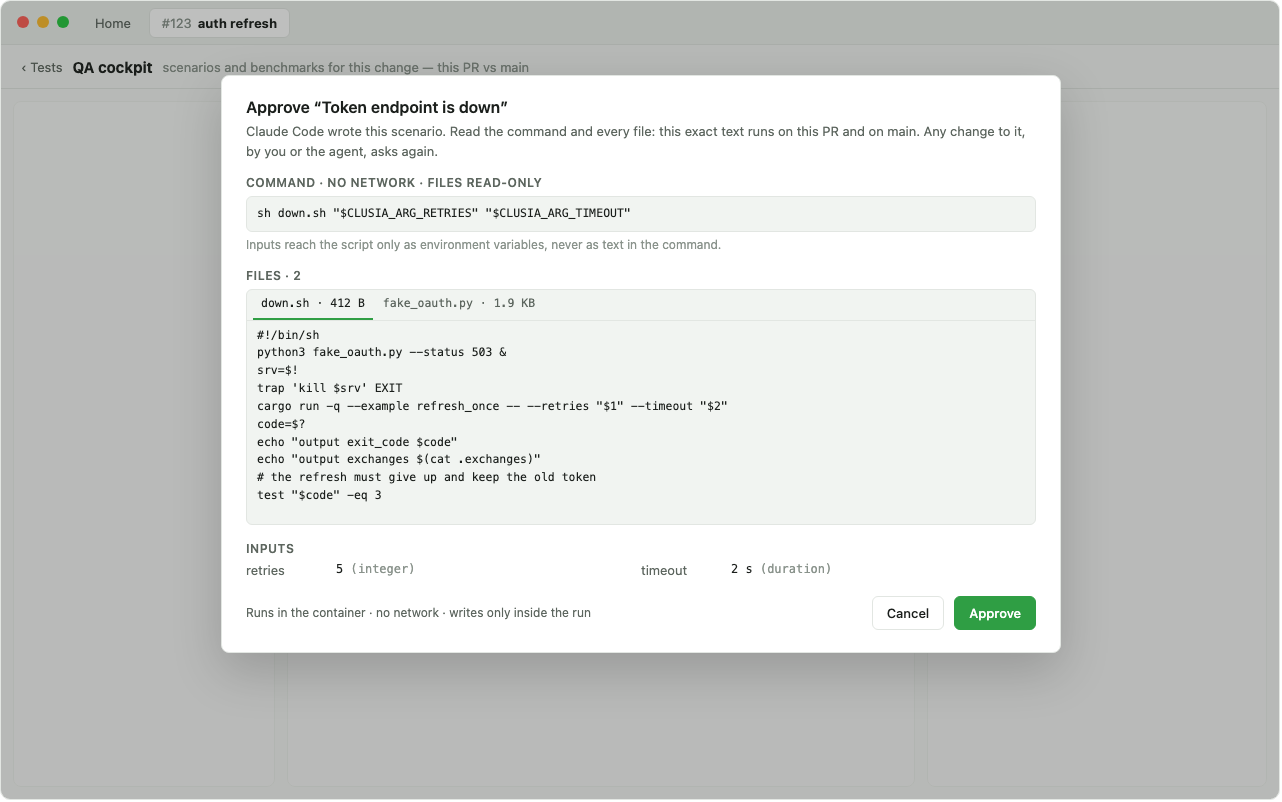
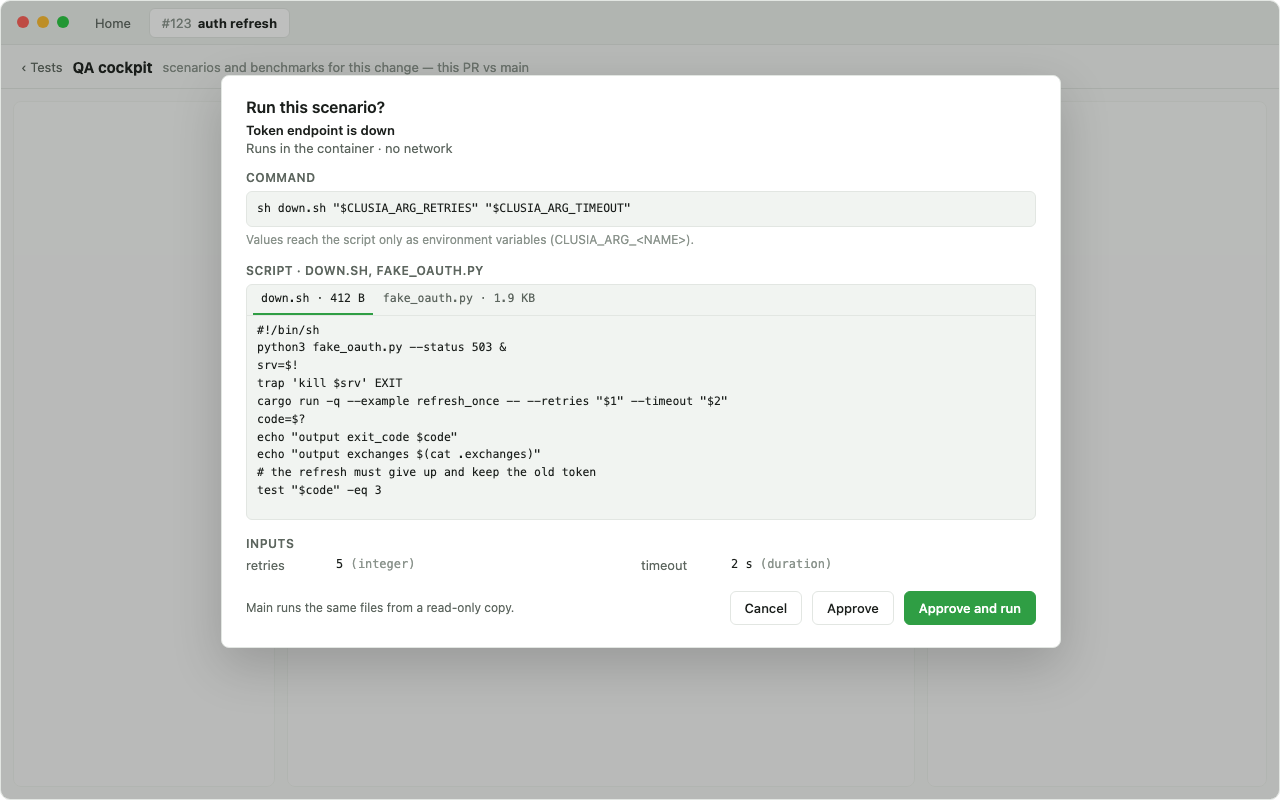
docs: the cockpit mockups use the copy the engine already fixes (status lines, approval and main's plan)

diff --git a/docs/mockups/sp4/src/cockpit-main.html b/docs/mockups/sp4/src/cockpit-main.html
@@ -4,24 +4,24 @@
   <div class="top"><span class="dots"><span style="background:#ff5f57"></span><span style="background:#febc2e"></span><span style="background:#28c840"></span></span>
     <span class="tab">Home</span><span class="tab on"><span class="f" style="margin-right:6px">#123</span><b>auth refresh</b></span></div>
   <div class="ck"><span class="back">‹ Tests</span><b>QA cockpit</b><span class="f">scenarios and benchmarks for this change — this PR vs main</span>
-    <span class="mainst" style="margin-left:auto"><span class="m">main</span><span class="mono">4e1f2a0</span><span class="amb">● needs setup</span></span></div>
+    <span class="mainst" style="margin-left:auto"><span class="m">main ·</span><span class="mono">4e1f2a0</span><span class="amb">● needs setup</span></span></div>
   <div class="cols" style="opacity:.35"><div class="col left"></div><div class="col mid"></div><div class="col right"></div></div>
   <div style="position:absolute;inset:0;background:rgba(20,24,22,.28)"></div>
   <div class="card" style="position:absolute;left:230px;top:96px;width:820px;padding:22px 24px;box-shadow:0 18px 50px rgba(0,0,0,.18)">
-    <div style="font-size:16px;font-weight:600">Set up main for comparison</div>
-    <div class="m" style="margin:6px 0 14px;line-height:1.5">A second checkout at this PR's base, <span class="mono">4e1f2a0</span>, with the same image and its own caches, so neither side warms the other. These steps are approved for main on their own. The first run builds from scratch.</div>
+    <div style="font-size:16px;font-weight:600">Prepare main</div>
+    <div class="m mono" style="margin:6px 0 4px;font-size:12px">main · 4e1f2a0 · this pull request's image clusia/rzorzal-clusia:4f2a91c · recipe 9c2e41a</div><div class="m" style="margin-bottom:14px;line-height:1.5">Main builds in its own worktree with its own caches; its first run builds from scratch.</div>
     <div class="m" style="font-size:12px;font-weight:600;letter-spacing:.04em;margin-bottom:6px">SETUP ON MAIN · 2 STEPS</div>
     <table><tbody>
       <tr><td style="width:26px">☑</td><td style="width:250px">Fetch dependencies</td><td class="mono m">cargo fetch --locked</td><td style="text-align:right;width:150px"><span class="pill" style="background:var(--chrome)">container</span> <span class="pill" style="background:var(--bluebg);color:var(--blue)">network</span></td></tr>
       <tr><td>☑</td><td>Build the tests</td><td class="mono m">cargo test --no-run --workspace</td><td style="text-align:right"><span class="pill" style="background:var(--chrome)">container</span></td></tr>
     </tbody></table>
-    <div class="m" style="font-size:12px;font-weight:600;letter-spacing:.04em;margin:16px 0 6px">USES</div>
+    <div class="m" style="font-size:12px;font-weight:600;letter-spacing:.04em;margin:16px 0 6px">COMMANDS ON MAIN · NO NETWORK</div><div class="mono" style="margin-bottom:10px">cargo test --workspace</div><div class="m" style="font-size:12px;font-weight:600;letter-spacing:.04em;margin:6px 0 6px">USES</div>
     <div style="display:grid;grid-template-columns:110px 1fr;row-gap:5px">
       <span class="m">Recipe</span><span>this PR's recipe <span class="f">(main has none)</span> · <span class="mono">sha 9c2e…41a</span></span>
       <span class="m">Image</span><span class="mono">clusia/rzorzal-clusia:4f2a91c</span>
       <span class="m">Caches</span><span>main's own · <span class="mono">clusia-main-*</span> volumes</span>
       <span class="m">Removed</span><span>with the review, and by Prune</span>
     </div>
-    <div style="display:flex;gap:10px;margin-top:18px;align-items:center"><span class="btn" style="margin-left:auto">Cancel</span><span class="btn p">Approve and prepare main</span></div>
+    <div style="display:flex;gap:10px;margin-top:18px;align-items:center"><span class="btn" style="margin-left:auto">Cancel</span><span class="btn p">Approve and prepare</span></div>
   </div>
 </div></body></html>

diff --git a/docs/mockups/sp4/src/cockpit-scenario.html b/docs/mockups/sp4/src/cockpit-scenario.html
@@ -4,16 +4,16 @@
   <div class="top"><span class="dots"><span style="background:#ff5f57"></span><span style="background:#febc2e"></span><span style="background:#28c840"></span></span>
     <span class="tab">Home</span><span class="tab on"><span class="f" style="margin-right:6px">#123</span><b>auth refresh</b></span></div>
   <div class="ck"><span class="back">‹ Tests</span><b>QA cockpit</b><span class="f">scenarios and benchmarks for this change — this PR vs main</span>
-    <span class="mainst" style="margin-left:auto"><span class="m">main</span><span class="mono">4e1f2a0</span><span class="ok">● ready</span></span>
+    <span class="mainst" style="margin-left:auto"><span class="m">main ·</span><span class="mono">4e1f2a0</span><span class="ok">● ready</span></span>
     <span class="mainst" style="margin-left:14px"><span class="ok">●</span>QA copilot · Claude Code</span></div>
   <div class="cols">
     <div class="col left">
       <div class="grp">SCENARIOS · 3</div>
       <div class="it"><span>Two requests refresh at once</span><span class="s"><span class="ok">passed</span> <span class="f">· main: failed</span></span></div>
-      <div class="it on"><span style="font-weight:600">Refresh under steady traffic</span><span class="s bad">worse than main: memory</span></div>
-      <div class="it"><span>Token endpoint is down</span><span class="s amb">needs your approval</span></div>
+      <div class="it on"><span style="font-weight:600">Refresh under steady traffic</span><span class="s bad">memory +116% · worse than main</span></div>
+      <div class="it"><span>Token endpoint is down</span><span class="s amb">not approved</span></div>
       <div class="grp" style="margin-top:8px">BENCHMARKS · ON DEMAND · 2</div>
-      <div class="it"><span class="mono">backoff_delay</span><span class="s f">no clear difference from main</span></div>
+      <div class="it"><span class="mono">backoff_delay</span><span class="s f">no clear difference (±3%)</span></div>
       <div class="it"><span class="mono">TokenStore::refresh</span><span class="s f">not run</span></div>
       <div class="grp" style="margin-top:8px;color:var(--faint)">LOAD · COMES LATER</div>
       <span class="btn" style="margin-top:10px;height:32px">+ Ask the copilot for a scenario</span>
@@ -45,7 +45,7 @@ echo "output exchanges $(cat .exchanges)"</div></div>
           <svg width="100%" height="92" viewBox="0 0 270 92" preserveAspectRatio="none"><polyline fill="none" stroke="var(--fg)" stroke-width="2" points="0,70 30,40 60,46 90,38 120,44 150,40 180,47 210,39 240,45 270,42"/><polyline fill="none" stroke="var(--faint)" stroke-width="1.6" stroke-dasharray="5 4" points="0,72 30,46 60,48 90,44 120,49 150,45 180,47 210,44 240,48 270,46"/></svg></div>
       </div>
       <div class="h">Errors</div>
-      <div><span class="bad">12 × "token store busy"</span> <span class="m">· first at 1.8 s · this PR</span> <span class="f">· none on main</span></div>
+      <div><span class="bad">12 × token store busy after 1.8 s (this PR)</span> <span class="m">· 0 on main</span></div>
       <div style="display:flex;gap:10px;margin-top:auto;padding-top:12px;align-items:center">
         <span class="btn p">▶ Run on this PR and main</span><span class="m" style="font-size:12px">3 rounds a side, alternated</span>
         <span class="u" style="margin-left:auto">Suggest as a test in a comment</span>

diff --git a/docs/mockups/sp4/src/cockpit-approve.html b/docs/mockups/sp4/src/cockpit-approve.html
@@ -7,12 +7,12 @@
   <div class="cols" style="opacity:.35"><div class="col left"></div><div class="col mid"></div><div class="col right"></div></div>
   <div style="position:absolute;inset:0;background:rgba(20,24,22,.28)"></div>
   <div class="card" style="position:absolute;left:220px;top:74px;width:840px;padding:22px 24px;box-shadow:0 18px 50px rgba(0,0,0,.18)">
-    <div style="font-size:16px;font-weight:600">Approve “Token endpoint is down”</div>
-    <div class="m" style="margin:6px 0 14px;line-height:1.5">Claude Code wrote this scenario. Read the command and every file: this exact text runs on this PR and on main. Any change to it, by you or the agent, asks again.</div>
-    <div class="m" style="font-size:12px;font-weight:600;letter-spacing:.04em;margin-bottom:6px">COMMAND · NO NETWORK · FILES READ-ONLY</div>
+    <div style="font-size:16px;font-weight:600">Run this scenario?</div>
+    <div style="margin:6px 0 2px;font-weight:600">Token endpoint is down</div><div class="m" style="margin-bottom:14px">Runs in the container · no network</div>
+    <div class="m" style="font-size:12px;font-weight:600;letter-spacing:.04em;margin-bottom:6px">COMMAND</div>
     <div class="pane" style="padding:8px 10px">sh down.sh "$CLUSIA_ARG_RETRIES" "$CLUSIA_ARG_TIMEOUT"</div>
-    <div class="f" style="font-size:12px;margin-top:5px">Inputs reach the script only as environment variables, never as text in the command.</div>
-    <div class="m" style="font-size:12px;font-weight:600;letter-spacing:.04em;margin:16px 0 6px">FILES · 2</div>
+    <div class="f" style="font-size:12px;margin-top:5px">Values reach the script only as environment variables (CLUSIA_ARG_&lt;NAME&gt;).</div>
+    <div class="m" style="font-size:12px;font-weight:600;letter-spacing:.04em;margin:16px 0 6px">SCRIPT · DOWN.SH, FAKE_OAUTH.PY</div>
     <div class="pane" style="height:236px"><div class="ftabs"><span class="on">down.sh · 412 B</span><span>fake_oauth.py · 1.9 KB</span></div><div style="padding:6px 10px">#!/bin/sh
 python3 fake_oauth.py --status 503 &amp;
 srv=$!
@@ -25,6 +25,6 @@ echo "output exchanges $(cat .exchanges)"
 test "$code" -eq 3</div></div>
     <div class="m" style="font-size:12px;font-weight:600;letter-spacing:.04em;margin:16px 0 6px">INPUTS</div>
     <div style="display:grid;grid-template-columns:90px 1fr 90px 1fr;row-gap:5px"><span class="m">retries</span><span class="mono">5 <span class="f">(integer)</span></span><span class="m">timeout</span><span class="mono">2 s <span class="f">(duration)</span></span></div>
-    <div style="display:flex;gap:10px;margin-top:18px;align-items:center"><span class="m" style="font-size:12px">Runs in the container · no network · writes only inside the run</span><span class="btn" style="margin-left:auto">Cancel</span><span class="btn p">Approve</span></div>
+    <div style="display:flex;gap:10px;margin-top:18px;align-items:center"><span class="m" style="font-size:12px">Main runs the same files from a read-only copy.</span><span class="btn" style="margin-left:auto">Cancel</span><span class="btn">Approve</span><span class="btn p">Approve and run</span></div>
   </div>
 </div></body></html>

diff --git a/docs/mockups/sp4/src/cockpit-bench.html b/docs/mockups/sp4/src/cockpit-bench.html
@@ -4,16 +4,16 @@
   <div class="top"><span class="dots"><span style="background:#ff5f57"></span><span style="background:#febc2e"></span><span style="background:#28c840"></span></span>
     <span class="tab">Home</span><span class="tab on"><span class="f" style="margin-right:6px">#123</span><b>auth refresh</b></span></div>
   <div class="ck"><span class="back">‹ Tests</span><b>QA cockpit</b><span class="f">scenarios and benchmarks for this change — this PR vs main</span>
-    <span class="mainst" style="margin-left:auto"><span class="m">main</span><span class="mono">4e1f2a0</span><span class="ok">● ready</span></span>
+    <span class="mainst" style="margin-left:auto"><span class="m">main ·</span><span class="mono">4e1f2a0</span><span class="ok">● ready</span></span>
     <span class="mainst" style="margin-left:14px"><span class="ok">●</span>QA copilot · Claude Code</span></div>
   <div class="cols">
     <div class="col left">
       <div class="grp">SCENARIOS · 3</div>
       <div class="it"><span>Two requests refresh at once</span><span class="s"><span class="ok">passed</span> <span class="f">· main: failed</span></span></div>
-      <div class="it"><span>Refresh under steady traffic</span><span class="s bad">worse than main: memory</span></div>
-      <div class="it"><span>Token endpoint is down</span><span class="s amb">needs your approval</span></div>
+      <div class="it"><span>Refresh under steady traffic</span><span class="s bad">memory +116% · worse than main</span></div>
+      <div class="it"><span>Token endpoint is down</span><span class="s amb">not approved</span></div>
       <div class="grp" style="margin-top:8px">BENCHMARKS · ON DEMAND · 2</div>
-      <div class="it on"><span class="mono" style="font-weight:600">backoff_delay</span><span class="s ok">running · main, round 3 of 5</span></div>
+      <div class="it on"><span class="mono" style="font-weight:600">backoff_delay</span><span class="s ok">running…</span></div>
       <div class="it"><span class="mono">TokenStore::refresh</span><span class="s f">not run</span></div>
       <div class="grp" style="margin-top:8px;color:var(--faint)">LOAD · COMES LATER</div>
       <span class="btn" style="margin-top:10px;height:32px">+ Ask the copilot for a scenario</span>

diff --git a/docs/mockups/sp4/src/cockpit-empty.html b/docs/mockups/sp4/src/cockpit-empty.html
@@ -9,7 +9,7 @@
   <div class="cols">
     <div class="col left">
       <div class="grp">SCENARIOS · 0</div>
-      <div class="it"><span class="f">None yet</span></div>
+      <div class="it"><span class="f" style="font-size:12px">No scenarios yet. Ask Claude Code to write them from the diff.</span></div>
       <div class="grp" style="margin-top:8px">BENCHMARKS · ON DEMAND · 0</div>
       <div class="it"><span class="f" style="font-size:12px">Ask the copilot for one on a changed function.</span></div>
       <div class="grp" style="margin-top:8px;color:var(--faint)">LOAD · COMES LATER</div>
